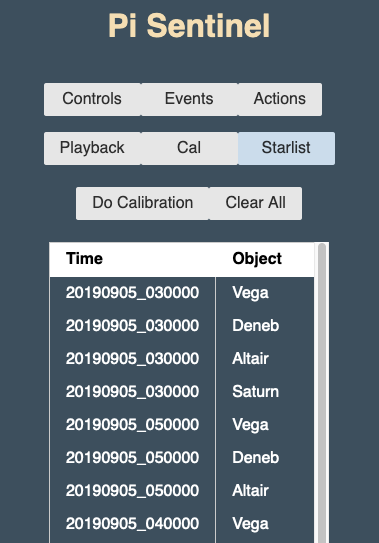
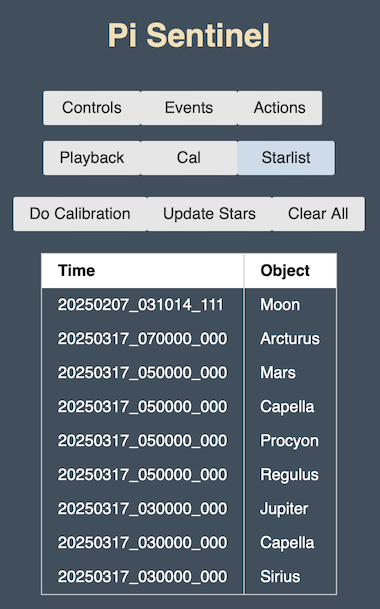
Update readme

diff --git a/README.md b/README.md
@@ -2,34 +2,6 @@
 
 All-sky camera meteor detection and display software for the Raspberry Pi.
 
-## Software Dependencies
-
-The Pi Sentinel software requires the following external programs and libraries:
-
-```
-sudo apt install libv4l-dev
-sudo apt install libturbojpeg-dev
-sudo apt install gpac
-sudo apt install libatlas-base-dev
-sudo apt install python3-scipy
-
-sudo pip3 install cherrypy
-sudo pip3 install pyephem
-```
-The `lib4l-dev` install provides the library used to access the camera device and the hardware encoder.
-
-The `libturbojpeg-dev` install provides the library used to encode and decode JPEG files.
-
-The `gpac` install provides the utility program (MP4Box) used to convert .h264 formatted files to .mp4.
-
-The `libatlas-base-dev` install provides numerical libraries used to for star ephemeris calculations. 
-
-The `python3-scipy` install provide libraries used to calculate calibration parameters.
-
-The `cherrypy` install provides the Python web server used for the graphical interface.
-
-The `pyephem` install provides routines for calculating star positions used for calibration.
-
 ## Hardware 
 
 The Pi Sentinel software is currently being used with the following hardware:
@@ -66,23 +38,35 @@ Note: The GPS Module should be kept several feet away from the hard drive and an
 
 Do this after installing the libraries mentioned above
 
-* Get the Pi Sentinel software
+* Get the Pi Sentinel software:
 
 `git clone https://github.com/chavezaurus/pi-sentinel.git`
 
+* Enter into Pi Sentinel directory:
+
 `cd pi-sentinel`
 
-* Make the C++ code
+* Install all the dependencies.  This takes a long time to complete, and requires you to answer several questions (just hitting return is fine), but it only needs to be done once:
 
-`make`
+`./install.sh`
 
-* Start Pi Sentinel and the web server
+* Start Pi Sentinel and the web server.  This takes a few minute to complete, but only the first time.
 
-`./sentinel.py`
+`./start.sh`
 
-Now open your web browser and connect to the IP address of your Raspberry Pi using port 9090.  Yours may be different but on my browser the address looks like this:
+Now you can open your web browser and connect to the IP address of your Raspberry Pi using port 9090.  Yours may be different but on my browser the address looks like this:
 
-```192.168.1.20:9090```.
+```192.168.1.20:9090```
+
+To stop the stop pi-sentinel, you can type the following:
+
+`tmux kill-session`
+
+Normally, Pi Sentinel uses the ffmpeg package to create the MP4 video file.  As an option, you can also use the MP4Box from gpac to create the MP4 video file.  To enable this option, install the MP4Box package by typing the following:
+
+`./install_mp4box.sh`
+
+This command takes a while to complete.
 
 ## User Interface
 
@@ -105,13 +89,13 @@ Next is the **Request Update** button.  Pressing this sends a request to the Pi 
 * **GPS Latitude** - This is the latitude provided by the GPS module, if present.
 * **GPS Longitude** - This is the longitude provided by the GPS module, if present.
 * **GPS Time Offset** - This is the difference between the time provided by the GPS module and the system time provided by the Raspberry Pi's internal clock.
-* **Auto Start Time** - This is the local time at which Pi Sentinel will start processing camera data.  Typically, this is when you might expect to start seeing meteors.
-* **Auto Stop Time** - This is the local time at which Pi Sentinel will stop processing camera data.  If both the Start Time and Stop Time are set to the same time, then neither action will occur and you will need to start or stop processing manually.
+* **Auto Start Time** - This is the local time at which Pi Sentinel will start processing camera data.  Typically, this is when you might expect to start seeing meteors.  Local time is with respect to the browser and may not be the local time with respect to the camera, which may be located remotely.
+* **Auto Stop Time** - This is the local time at which Pi Sentinel will stop processing camera data.  If both the Start Time and Stop Time are set to the same time, then neither action will occur and you will need to start or stop processing manually. Local time is with respect to the browser and may not be the local time with respect to the camera, which may be located remotely.  As a convenience, when the Pi Sentinel stops processing camera data at the Auto Stop Time, it will automatically start generating Composite Images and CSV files for all events in the New directory.
 * **Noise Threshold** - Pixels values that are less than this number above background are ignored.
 * **Trigger Threshold** - If the sum of pixel values that are more than the noise threshold above background exceeds this number, then a trigger is initiated and an event is produced.
 * **Max Events Per Hour** - The nominal maximum number of events that can be produced per hour.  The way this works can be explained with an example.  Suppose that the Max Events Per Hour is set to 5.  When processing begins, Pi Sentinel has a starting credit of 5 events.  Every time an event occurs, the credit is reduced by 1.  If the credit reaches 0, no more events are allowed.  However, one credit is added every 12 minutes (1/5 hour) up to a maximum of 5 credits.
 * **Camera Device** - This specifies which video device is being used by the Raspberry Pi to connect to the camera.  This will typically be `/dev/videoN` where N is some number.  Cameras often connect to several devices if they provide several different data formats.  For Pi Sentinel you need to connect to the device that provides H264 formatted data.
-* **Archive Path** - This specifies the path to the directory that will contain the archive, which is all the video that the camera produces while Pi Sentinel is processing data.  If you do not wish to archive all the video, the path should be specified as: `none`.
+* **Archive Path** - This specifies the full path to the directory that will contain the archive, which is all the video that the camera produces while Pi Sentinel is processing data.  If you do not wish to archive all the video, the path should be specified as: `none`.
 
 Next is the **Submit** button.  If you change one of the parameters above, you must click this button to have these changes submitted to Pi Sentinel.
 
@@ -119,23 +103,19 @@ If you press the **Actions** button, you will see drop-down commands, some of wh
 
 ![Control Panel 2](doc/PiSentinelControls2.png)
 
-If Pi Sentinel is not processing, then pressing the **Toggle Start/Stop** selection will start processing.  Alternatively, if Pi Sentinel is processing, then pressing this command will stop processing.
+If Pi Sentinel is not processing camera data, then pressing the **Toggle Start/Stop** selection will start processing.  Alternatively, if Pi Sentinel is processing camera data, then pressing this command will stop processing.
 
-Pressing the **Force Trigger** command will cause an event to be immediately generated.  This command is available only when Pi Sentinel is processing data from the camera.
+Pressing the **Force Trigger** command will cause an event to be immediately generated.  This command is available only when Pi Sentinel is processing camera data.
 
-Pressing the **Make Composite** command will cause a composite image to be produced from the most recently selected event video.
+Pressing the **Make Composite** command will cause a composite image to be produced from the most recently selected event video.  This command may take a long time to complete depending on the length of the event.  An alert will appear when the action has completed.  This command works only when Pi Sentinel is not otherwise busy, either processing camera data executing some other long lasting task. An alert will appear when the action has completed.
 
-Pressing the **Analyze** command will instruct the software to produce a CSV file (comma separated variable) that contains a time history of the event, including the time of each video frame, the number of pixels that are above the noise threshold, the sum of the pixel values above the noise threshold, the X and Y coordinates of the centroid of the pixels above the noise threshold, and the calculated azimuth and elevation of this centroid.  Azimuth and elevation calculations depend on accurate calibration parameters so make sure a full calibration is done beforehand.
+Pressing the **Analyze** command will instruct the software to produce a CSV file (comma separated variable) that contains a time history of the event, including the time of each video frame, the number of pixels that are above the noise threshold, the sum of the pixel values above the noise threshold, the X and Y coordinates of the centroid of the pixels above the noise threshold, and the calculated azimuth and elevation of this centroid.  Azimuth and elevation calculations depend on accurate calibration parameters so make sure a full calibration is done beforehand. This command may take a long time to complete depending on the length of the event.  This command works only when Pi Sentinel is not otherwise busy, either processing camera data executing some other long lasting task. An alert will appear when the action has completed.
 
-Ideally, you should see pixel values above the noise threshold only when a meteor is present.  However, if examining the CVS file shows pixel values above the noise threshold at other times, you should consider raising the **Noise Threshold** value in the **Controls** pane and remaking the CVS file.  
+Ideally, you should see pixel values above the noise threshold only when a meteor is present.  However, if examining the CVS file shows pixel values above the noise threshold at other times, you should consider raising the **Noise Threshold** value in the **Controls** pane and then remaking the CVS file.  
 
-Very often the main source of noise will be the moon because of how bright it is.  To remedy this, you can do the following:  After selecting an event and making a composite, move to either the **Cal** pane or the **Starlist** pane to show the locations of celestial objects, including the moon, that are in the field of view at the time of the event.  Now the Pi Sentinel program knows where the moon is and it will ignore pixels near the moon when producing the CSV file.
+Pressing the **Make Star Map** command will instruct the software to produce an image, from the most recently selected event video, that attempts to enhance the background in order to make faint stars visible.  It works by summing all frames from the first half of the video, subtracting an equal number of frames from the second half of the video, and then producing a suitably scaled image from the result.  In theary, all static features and noise accumulated during the first half are cancelled out by subtracting the frames from the second half.  However, if the video is long enough, the stars accumulated during the first half will have moved slightly, and so will not be cancelled out when the frames from the second half are subtracted. 
 
-Pressing the **Make Star Map** command will instruct the software to produce an image, from the most recently selected event video, that attempts to enhance the background in order to make faint stars visible.  It works by summing all frames from the first half of the video, subtracting an equal number of frames from the second half of the video, and then producing a suitably scaled image from the result.  In theary, all static features and noise accumulated during the first half are cancelled out by subtracting the frames from the second half.  However, if the video is long enough, the stars accumulated during the first half will have moved sufficiently, and so will not be cancelled out when the frames from the second half are subtracted.
-
-In order to make a video long enough for this process to work, it is necessary to produce a Playback video from the video archive, as described in the **Playback** discussion below.  I have found that a playback with a 300 second duration appears to work reasonably well and will produce an image that clearly shows several bright stars and planets.  By making several such star map images at various times throughout a clear night, it is possible to collect enough calibration reference measurements to permit a full calibration using optimization techniques.  This process is described in the **Starlist** section below.
-
-However, producing a long duration playback is tedious and requires a large amount of memory.  To help with this a script can be used to automate the process.  The Python script `starmap.py` is an example script designed to produce a set of star maps from archive data collected over a single night.  To use it, edit the `start`, `end` and `delta` assignment statements to select the start time, the end time, and the time interval.  At each of the selected times, the script produces a playback video, uses the running Pi Sentinel web program to produce a star map, and then replaces the long duration playback video with a short duration playback video that uses much less memory.
+In order to make a video long enough for this process to work, it is necessary to produce a Playback video from the video archive, as described in the **Playback** discussion below.  I have found that a playback with a 60 second duration appears to work reasonably well and will produce an image that clearly shows several bright stars and planets. To see fainter stars, a longer playback may be required.  By making several such star map images at various times throughout a clear night, it is possible to collect enough calibration reference measurements to permit a full calibration using optimization techniques.  This process is described in the **Starlist** section below.  Because of the length of the Playback video, this command will take several minutes to complete.  This command works only when Pi Sentinel is not otherwise busy, either processing camera data executing some other long lasting task. An alert will appear when the action has completed.
 
 The **Get Video** command is used to fetch the most recently viewed video to local storage.  On my Mac I use this to bring the video file from the Raspberry Pi to the Mac.
 
@@ -144,6 +124,10 @@ The **Get Image** command is used to fetch the most recently viewed composite im
 The **Get CSV File** command is used to fetch the CSV file of the most recently viewed event to local storage.  Of course, this works only if a CSV file has already been produced by the **Analyze** command.
 
 The **Self Test** command initiates a sequence of actions designed to fully test the Pi Sentinel system.  At the beginning of this sequence, processing of camera data is started, then after a period of time, a Force Trigger is initiated, and then, after a period of time, processing of camera data is stopped.  This sequence lasts for about three minutes and is repeated 10 times.  This command is not available if Pi Sentinel is already processing camera data.
+
+The **Recalc Times** command will calculate the Auto Start Time and the Auto Stop Time based on the current times of sunrise and sunset at the camera's current location.  A dialog appears as shown below which allows you to specify the minutes of twilight.  The Auto Start Time is then set to the number of minutes of twilight after sunset, and the Auto Stop Time is set to the number of minutes of twilight before sunrise. This command can be invoked periodically throughout the year to accommodate the changing amount of darkness as the seasons change.
+
+![Twilight Dialog](doc/PiSentinelTwilight.png)
 
 ### Events Pane
 
@@ -165,7 +149,7 @@ Press the **Playback** button to select the **Playback Pane** as shown below.
 
 If you decide to maintain a video archive, the Playback capability lets you go into the archive and generate event files at any time and with any duration, as if a genuine event occurred at that time.  This can be useful if you know from other sources that a meteor event occurred at a specific time but Pi Sentinel did not trigger for whatever reason.  Or, perhaps Pi Sentinel did produce an event, but the event video started too late or cut off too soon. In this case, the Playback capability will let you produce a new event with expanded time coverage.
 
-The **Playback** pane lets you specify a start time and a duration in seconds.  For convenience, the start time is initialized to the time of the last event selected.  If the video archive contains video that matches the specified start time and duration, then Pi Sentinel creates a new event and places it in the `new` directory where it can be examined and moved just like any other event.
+The **Playback** pane lets you specify a start time and a duration in seconds.  For convenience, the start time is initialized to the time of the last event selected.  If the video archive contains video that matches the specified start time and duration, then Pi Sentinel creates a new event and places it in the `new` directory where it can be examined and moved just like any other event.  The time specified is the local time with respect to the browser, and may not be the local time at the camera if the camera is at a remote location.
 
 ### Cal Pane
 
@@ -191,7 +175,7 @@ Press the **Starlist** button to select the **Starlist Pane** as shown below.
 
 The **Starlist** pane presents a list of selected star measurements used to perform a calibration. The view shows the image of the most recently selected event, along with markers showing the calculated position of the brightest stars and planets visible at the time of the event.  The event should be one created with the **Make Star Map** command as described earlier.  The calibration parameters may need to be adjusted by hand such that the apparent star position is reasonably close to the calculated star position.  To add a measurement to the list, click on the apparent star position.  The program calculates the centroid of the apparent star position and finds the nearest star.  It then presents a dialog allowing you to approve the star selection whereupon it adds the measurement to the list.  You can add measurements from several events by going back to the **Events** pane, selecting a different event video, and then returning to the **Starlist** pane.  
 
-After enough measurements have been selected, press the `Do Calibration` button.  This sends the measurement data to the Pi Sentinel software, which performs an optimization to find the set of calibration parameters that best fits the measurements.  This set is returned and replaces the calibration parameters displayed in the **Cal** pane.
+After enough measurements have been selected, press the `Do Calibration` button.  This sends the measurement data to the Pi Sentinel software, which performs an optimization to find the set of calibration parameters that best fits the measurements.  This set is returned and replaces the calibration parameters displayed in the **Cal** pane. Press the `Update Stars` button to update the star positions based on the calibration parameters.
 
 To see how well the calibration worked, go to the **Events** pane, select one of the events created with the **Make Star Map** command, and return to the **Starlist** or **Cal** pane.  Each apparent star image should be within the circle of its calculated star position.
 
@@ -199,7 +183,7 @@ To see how well the calibration worked, go to the **Events** pane, select one of
 
 The mask file is used to specify areas of the image that should be ignored.  The mask file contains an image of the camera field of view in which the areas to be ignored are painted red.  The image should be scaled to 640 pixels wide and 360 pixels high and be saved as `mask.jpg` (JPEG format) in the same directory as `sentinel.py`.  
 
-To produce this file, I started with an event video (either naturally occurring or forced) and created a composite JPEG image file.  I then opened the JPEG file with Gimp, scaled it to 640 x 360 pixels, selected the Pencil tool, widened the tool to a convenient size, selected solid red as the foreground color, and then painted the areas of the image red that were not open sky.  I then did an Export As... and saved the result as `mask.jpg`.  Gimp can be run on the Raspberry Pi or on any other computer.
+To produce this file, I started with an event video (either naturally occurring or forced) and created a composite JPEG image file. Many applications can be used to edit the image file to produce the mask file.  On the Mac, I used the freely available ImageJ application, which is a Java application that also runs on other platforms.
 
 The mask file is read by the sentinel program every time it starts.
 
